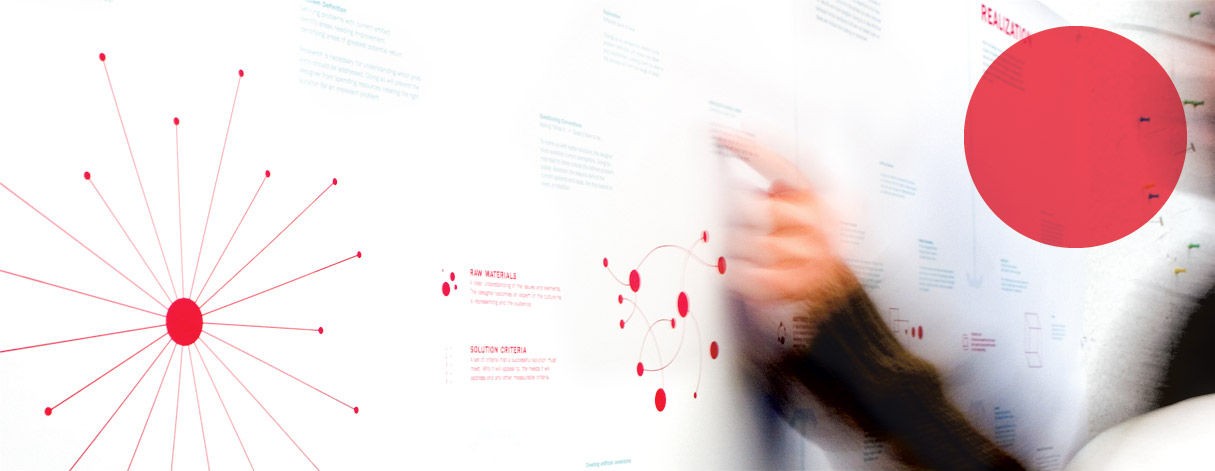
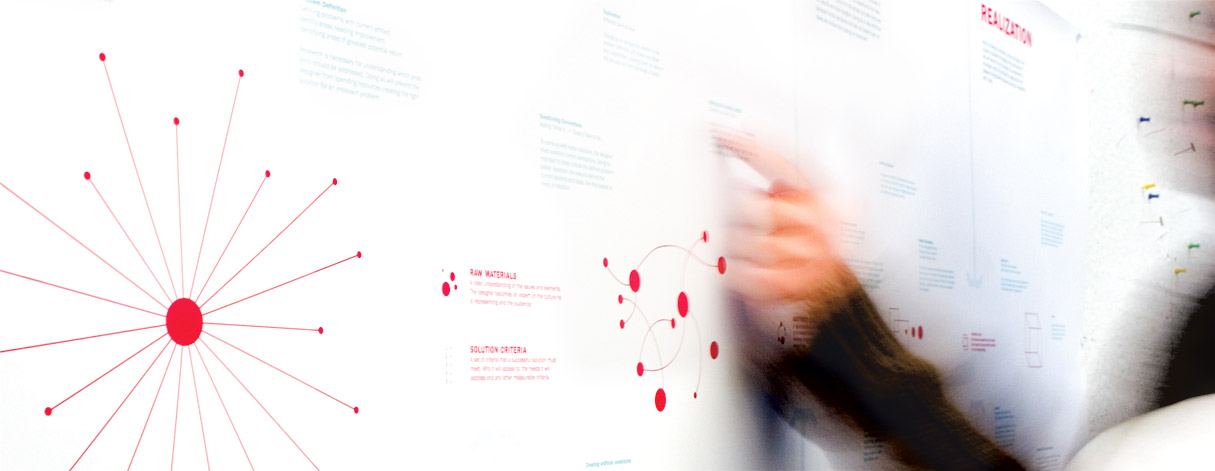
done

Changed region(s): [[0.7918, 0.0594, 0.9745, 0.535]]

diff --git a/app/scss/pages/_form-studies.scss b/app/scss/pages/_form-studies.scss
@@ -1,8 +1,6 @@
-.form-studies    { 
-  .first         { margin-top:90px}
-  img            { margin:0 auto;   }
-  .image         { position: relative; margin-right: 190px; display: inline-block;
-    .mini-descript {  position:absolute; bottom:0; right:133px; font-size:13px; font-style: italic; color:#9D9D9E; display:block; width:116px; margin-left:20px; line-height: 17px; right: -145px; }
-  }
-  .dark img      { border-color:#2B2B2D ;}
+.form-studies      { 
+  .first           { margin-top:90px}
+  img              { margin:0 auto;   }
+  .image           { position: relative; display: inline-block;}
+  .mini-descript   { position:absolute; bottom:0; font-size:13px; font-style: italic; color:#9D9D9E; display:block; width:116px; line-height: 17px; right: -135px;  }
 }

diff --git a/app/scss/pages/_design-poster.scss b/app/scss/pages/_design-poster.scss
@@ -1,8 +1,8 @@
 .design_poster  {
   .top          {position: relative;}
-  a             { position: absolute; cursor:pointer; top:8px; right:10px;
+  a             { position: absolute; cursor:pointer; bottom:-74px; right:8px;
     svg         { 
-      .bg       { fill:#ED4655; opacity:0; @include transition; }
+      .bg       { fill:#E94654; opacity:0.85; @include transition; }
       .st0      { fill:none;stroke:#FFFFFF;stroke-width:2;stroke-miterlimit:10;}
       .st1      { fill:#80D2E9;}
       .st2      { fill:#ED4655;}
@@ -15,7 +15,7 @@
     }
     &:hover     {
       svg       {
-        .bg     { opacity:0.7; }
+        .bg     { opacity:0.95; }
         .blue   { fill:black; }
       }
     }

diff --git a/app/scss/pages/_logos.scss b/app/scss/pages/_logos.scss
@@ -13,6 +13,6 @@
     img, .descript         { margin:20px auto; }
   }
   .lep                     {
-    img, .descript { float:right; }
+    img, .descript         { float:right; }
   }
 }
